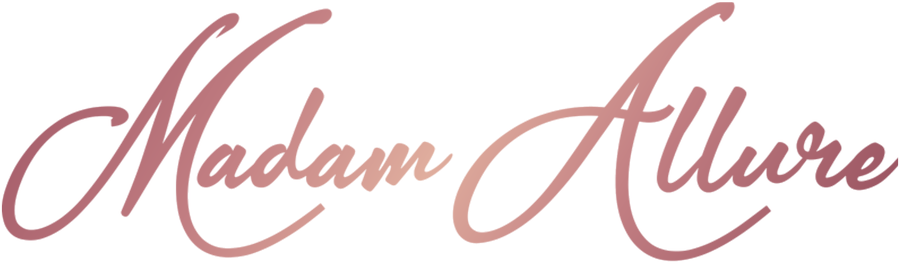
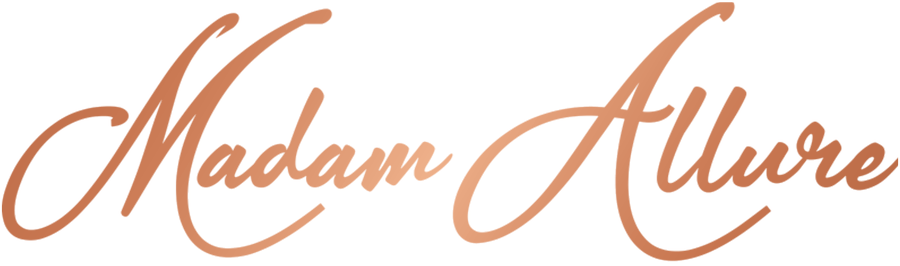
Entrance suites get their own waiting-area images; Madam Allure signature recolored to the desk's copper trim

Changed region(s): [[0.0, 0.0301, 0.4044, 0.9624], [0.4978, 0.0, 1.0, 0.9925], [0.3422, 0.782, 0.3733, 0.812]]

diff --git a/index.html b/index.html
@@ -47,10 +47,10 @@
     @keyframes fromWarm{from{opacity:0;filter:brightness(1.4) blur(4px)}to{opacity:1;filter:none}}
     /* Suite info centers: each suite's card is a small waiting area in that office's own look and color. */
     .suite-entry{--acc:#c69676;min-height:300px;padding:0 20px 22px;display:flex;flex-direction:column;justify-content:flex-end;overflow:hidden}
-    .suite-entry[data-suite="madam"]{--acc:#c69676;--img:url('img/madam-allure.jpg')}
-    .suite-entry[data-suite="fusions"]{--acc:#6c9dff;--img:url('img/allure-fusions.jpg')}
-    .suite-entry[data-suite="ai"]{--acc:#21b8b0;--img:url('img/ai-authoritech.jpg')}
-    .suite-entry:before{inset:0!important;border:1px solid color-mix(in srgb,var(--acc) 55%,transparent)!important;border-top:3px solid var(--acc)!important;background:linear-gradient(180deg,rgba(8,8,10,.05) 0%,rgba(8,8,10,.35) 45%,rgba(8,8,10,.9) 100%),var(--img) center 35%/cover no-repeat!important;transition:transform .6s var(--ease),box-shadow .45s var(--ease)!important}
+    .suite-entry[data-suite="madam"]{--acc:#c69676;--img:url('img/suite-madam-allure.jpg')}
+    .suite-entry[data-suite="fusions"]{--acc:#6c9dff;--img:url('img/suite-allure-fusions.jpg')}
+    .suite-entry[data-suite="ai"]{--acc:#21b8b0;--img:url('img/suite-ai-authoritech.jpg')}
+    .suite-entry:before{inset:0!important;border:1px solid color-mix(in srgb,var(--acc) 55%,transparent)!important;border-top:3px solid var(--acc)!important;background:linear-gradient(180deg,rgba(8,8,10,.0) 0%,rgba(8,8,10,.25) 45%,rgba(8,8,10,.88) 100%),var(--img) center 45%/cover no-repeat!important;transition:transform .6s var(--ease),box-shadow .45s var(--ease)!important}
     .suite-entry:hover:before,.suite-entry.active:before{box-shadow:0 18px 50px rgba(0,0,0,.45),0 0 30px color-mix(in srgb,var(--acc) 35%,transparent)!important;border-color:var(--acc)!important}
     .suite-entry .descriptor{color:#fff}
     .suite-entry .hint{color:color-mix(in srgb,var(--acc) 70%,#fff)}

diff --git a/src/ccs-preview.html b/src/ccs-preview.html
@@ -46,10 +46,10 @@
     @keyframes fromWarm{from{opacity:0;filter:brightness(1.4) blur(4px)}to{opacity:1;filter:none}}
     /* Suite info centers: each suite's card is a small waiting area in that office's own look and color. */
     .suite-entry{--acc:#cb9671;min-height:300px;padding:0 20px 22px;display:flex;flex-direction:column;justify-content:flex-end;overflow:hidden}
-    .suite-entry[data-suite="madam"]{--acc:#cb9671;--img:url('img/madam-allure.jpg')}
-    .suite-entry[data-suite="fusions"]{--acc:#6c9dff;--img:url('img/allure-fusions.jpg')}
-    .suite-entry[data-suite="ai"]{--acc:#21b8b0;--img:url('img/ai-authoritech.jpg')}
-    .suite-entry:before{inset:0!important;border:1px solid color-mix(in srgb,var(--acc) 55%,transparent)!important;border-top:3px solid var(--acc)!important;background:linear-gradient(180deg,rgba(8,8,10,.05) 0%,rgba(8,8,10,.35) 45%,rgba(8,8,10,.9) 100%),var(--img) center 35%/cover no-repeat!important;transition:transform .6s var(--ease),box-shadow .45s var(--ease)!important}
+    .suite-entry[data-suite="madam"]{--acc:#cb9671;--img:url('img/suite-madam-allure.jpg')}
+    .suite-entry[data-suite="fusions"]{--acc:#6c9dff;--img:url('img/suite-allure-fusions.jpg')}
+    .suite-entry[data-suite="ai"]{--acc:#21b8b0;--img:url('img/suite-ai-authoritech.jpg')}
+    .suite-entry:before{inset:0!important;border:1px solid color-mix(in srgb,var(--acc) 55%,transparent)!important;border-top:3px solid var(--acc)!important;background:linear-gradient(180deg,rgba(8,8,10,.0) 0%,rgba(8,8,10,.25) 45%,rgba(8,8,10,.88) 100%),var(--img) center 45%/cover no-repeat!important;transition:transform .6s var(--ease),box-shadow .45s var(--ease)!important}
     .suite-entry:hover:before,.suite-entry.active:before{box-shadow:0 18px 50px rgba(0,0,0,.45),0 0 30px color-mix(in srgb,var(--acc) 35%,transparent)!important;border-color:var(--acc)!important}
     .suite-entry .descriptor{color:#fff}
     .suite-entry .hint{color:color-mix(in srgb,var(--acc) 70%,#fff)}
